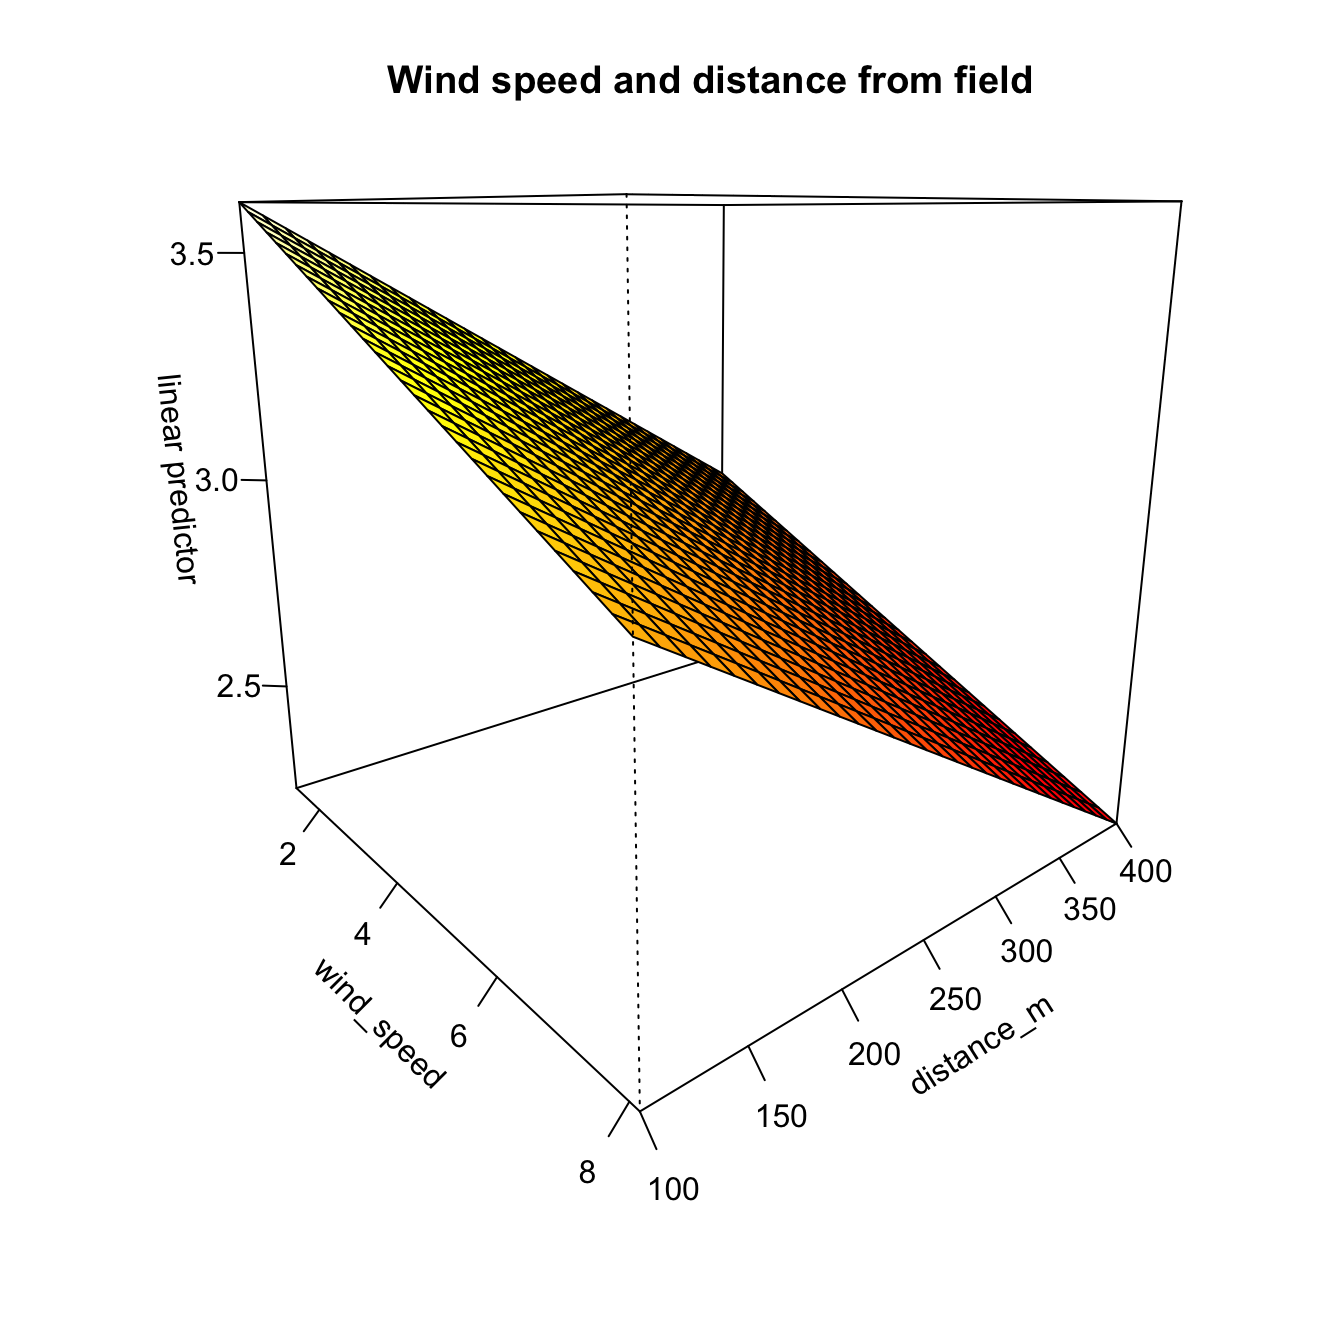
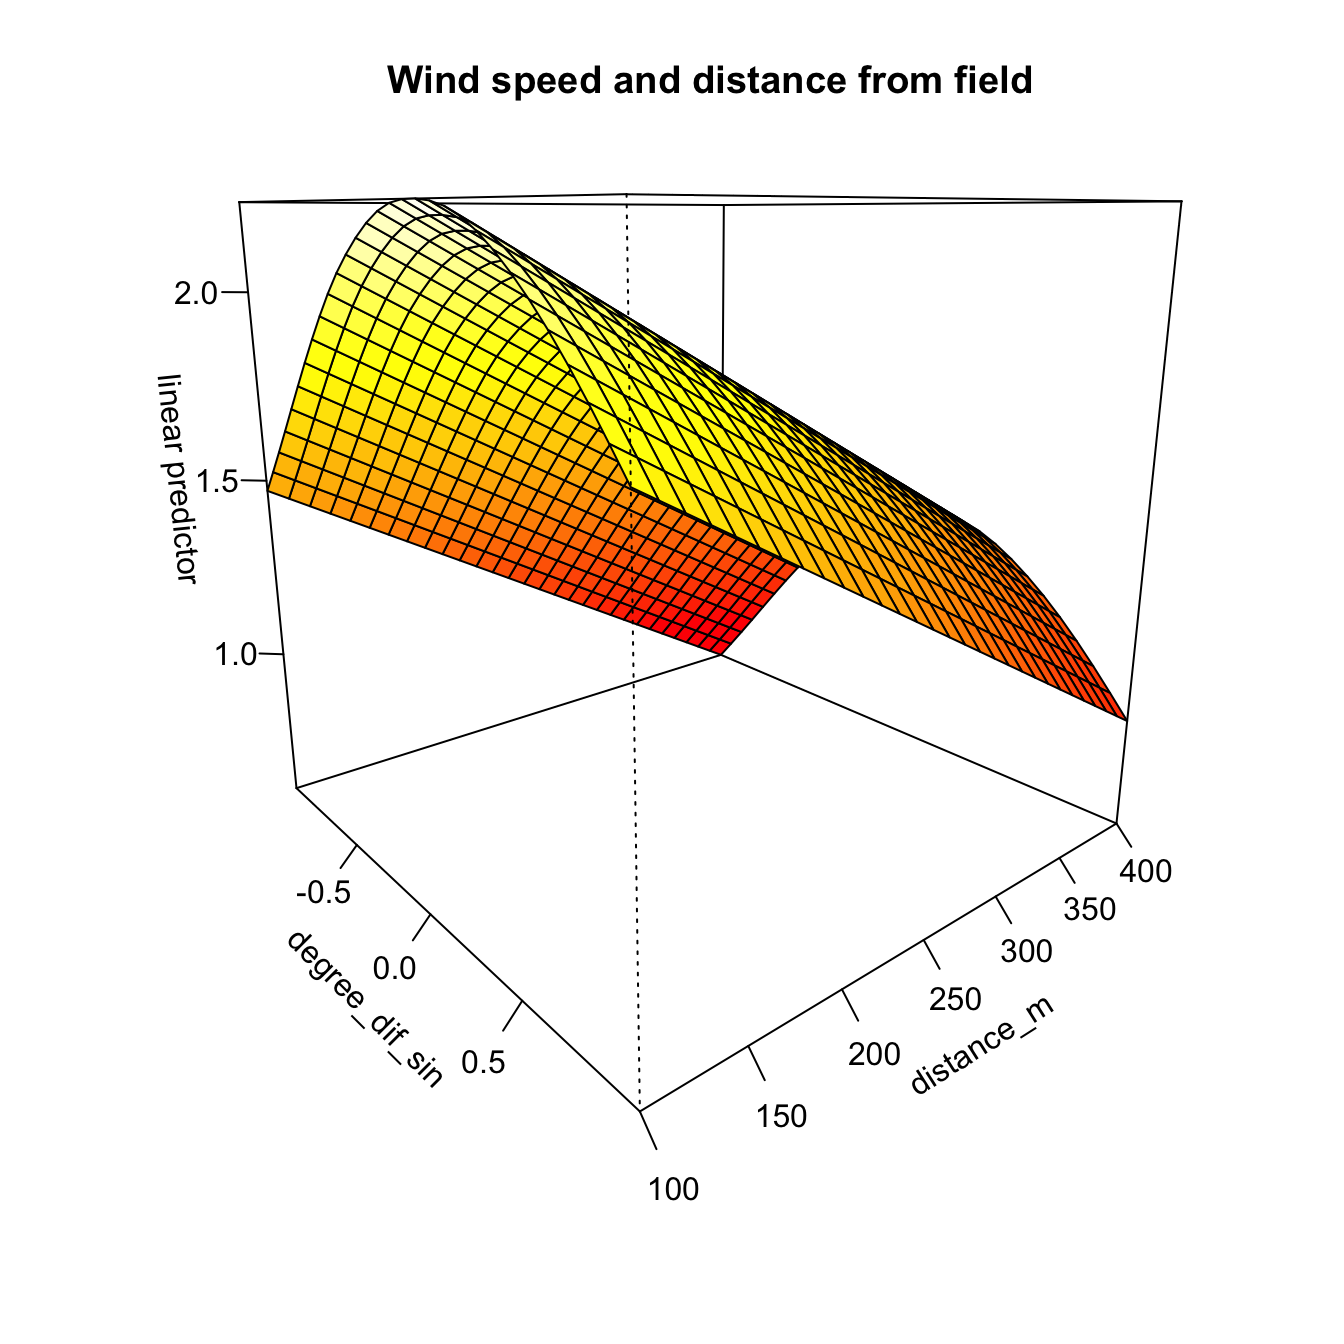
Revert to org model

diff --git a/gam_model.html b/gam_model.html
@@ -439,7 +439,7 @@ recorded in spore type proportion at 100 m to 400 m downwind (P =
          wind_degrees,
          wind_speed,
          distance_m,
-         n_spore) %&gt;%
+         spore_cm2) %&gt;%
   print(n = Inf)</code></pre>
 <pre><code>## # A tibble: 24 × 8
 ## # Groups:   field [6]
@@ -469,7 +469,7 @@ recorded in spore type proportion at 100 m to 400 m downwind (P =
 ## 22 6     E                    90     87.8           2.16       7.57        100
 ## 23 6     W                   270    268.            2.16       7.57        100
 ## 24 6     S                   180    178.            2.16       7.57        100
-## # ℹ 1 more variable: n_spore &lt;dbl&gt;</code></pre>
+## # ℹ 1 more variable: spore_cm2 &lt;dbl&gt;</code></pre>
 <p>Based on the use of AIC to evaluate model fit to the data, the
 following GAM best fit the data with the smoothed time slice variables,
 s(<code>time_slice</code>); a smoothed term for both wind-speed and the
@@ -480,75 +480,84 @@ themselves as a smoothed term random effect, s(<code>field</code>,
 <pre class="r"><code># create a factor for the trap locations in Cartesian coords to be used as a random effect
 mod_dat$xy &lt;- as.factor(paste(mod_dat$x, mod_dat$y))
 
+# create predictor degree diff as per Ben Bolker for circular predictors,
+# https://fediscience.org/@bbolker/110856805100981742, see Appendix for screenshot
+mod_dat$degree_dif_sin &lt;- sin(2 * pi * mod_dat$degree_dif / 360)
+
 m1 &lt;- gam(
-  n_spore ~ s(time_slice, k = 3) +
-    s(wind_speed, distance_m, k = 72) +
+  spore_cm2 ~ s(time_slice, k = 3) +
+    s(degree_dif_sin, k = 72) +
+    s(distance_m, k = 4) +
     s(field, xy, bs = &quot;re&quot;),
   data = mod_dat,
   select = TRUE,
   method = &quot;REML&quot;,
-  family = nb()
+  family = tw()
 )</code></pre>
 </div>
 <div id="inspect-model-m1" class="section level3">
 <h3>Inspect Model m1</h3>
 <pre class="r"><code>m1</code></pre>
 <pre><code>## 
-## Family: Negative Binomial(2.483) 
+## Family: Tweedie(p=1.504) 
 ## Link function: log 
 ## 
 ## Formula:
-## n_spore ~ s(time_slice, k = 3) + s(wind_speed, distance_m, k = 72) + 
-##     s(field, xy, bs = &quot;re&quot;)
+## spore_cm2 ~ s(time_slice, k = 3) + s(degree_dif_sin, k = 72) + 
+##     s(distance_m, k = 4) + s(field, xy, bs = &quot;re&quot;)
 ## 
 ## Estimated degrees of freedom:
-##  0.974  1.468 87.081  total = 90.52 
+##  0.978  1.658  0.808 84.401  total = 88.84 
 ## 
-## REML score: 1073.899</code></pre>
+## REML score: 695.9045</code></pre>
 <div id="check-model-m1" class="section level4">
 <h4>Check model m1</h4>
 <pre class="r"><code>gam.check(m1)</code></pre>
 <p><img src="gam_model_files/figure-html/gam-check-m1-1.png" width="60%" /></p>
 <pre><code>## 
 ## Method: REML   Optimizer: outer newton
-## full convergence after 8 iterations.
-## Gradient range [-0.0003730279,0.00033249]
-## (score 1073.899 &amp; scale 1).
-## Hessian positive definite, eigenvalue range [0.0002110551,53.47214].
-## Model rank =  266 / 266 
+## full convergence after 11 iterations.
+## Gradient range [-0.0001281966,0.000115113]
+## (score 695.9045 &amp; scale 0.9504511).
+## Hessian positive definite, eigenvalue range [0.00001544762,220.5864].
+## Model rank =  269 / 269 
 ## 
 ## Basis dimension (k) checking results. Low p-value (k-index&lt;1) may
 ## indicate that k is too low, especially if edf is close to k&#39;.
 ## 
-##                               k&#39;     edf k-index p-value
-## s(time_slice)              2.000   0.974    0.96    0.51
-## s(wind_speed,distance_m)  71.000   1.468    1.01    0.91
-## s(field,xy)              192.000  87.081      NA      NA</code></pre>
+##                        k&#39;     edf k-index p-value  
+## s(time_slice)       2.000   0.978    0.91   0.325  
+## s(degree_dif_sin)  71.000   1.658    0.84   0.035 *
+## s(distance_m)       3.000   0.808    1.03   0.955  
+## s(field,xy)       192.000  84.401      NA      NA  
+## ---
+## Signif. codes:  0 &#39;***&#39; 0.001 &#39;**&#39; 0.01 &#39;*&#39; 0.05 &#39;.&#39; 0.1 &#39; &#39; 1</code></pre>
 <pre class="r"><code>summary(m1)</code></pre>
 <pre><code>## 
-## Family: Negative Binomial(2.483) 
+## Family: Tweedie(p=1.504) 
 ## Link function: log 
 ## 
 ## Formula:
-## n_spore ~ s(time_slice, k = 3) + s(wind_speed, distance_m, k = 72) + 
-##     s(field, xy, bs = &quot;re&quot;)
+## spore_cm2 ~ s(time_slice, k = 3) + s(degree_dif_sin, k = 72) + 
+##     s(distance_m, k = 4) + s(field, xy, bs = &quot;re&quot;)
 ## 
 ## Parametric coefficients:
-##             Estimate Std. Error z value            Pr(&gt;|z|)    
-## (Intercept)   2.1867     0.1869    11.7 &lt;0.0000000000000002 ***
+##             Estimate Std. Error t value Pr(&gt;|t|)    
+## (Intercept)   0.6869     0.1799   3.819 0.000179 ***
 ## ---
 ## Signif. codes:  0 &#39;***&#39; 0.001 &#39;**&#39; 0.01 &#39;*&#39; 0.05 &#39;.&#39; 0.1 &#39; &#39; 1
 ## 
 ## Approximate significance of smooth terms:
-##                              edf Ref.df  Chi.sq             p-value    
-## s(time_slice)             0.9742      2   37.69 &lt;0.0000000000000002 ***
-## s(wind_speed,distance_m)  1.4684     57 1175.98              0.0214 *  
-## s(field,xy)              87.0809     95 1259.43 &lt;0.0000000000000002 ***
+##                       edf Ref.df      F             p-value    
+## s(time_slice)      0.9780      2  22.39 &lt;0.0000000000000002 ***
+## s(degree_dif_sin)  1.6581     69  16.34              0.0591 .  
+## s(distance_m)      0.8082      3 677.92              0.0239 *  
+## s(field,xy)       84.4006     95  13.99 &lt;0.0000000000000002 ***
 ## ---
 ## Signif. codes:  0 &#39;***&#39; 0.001 &#39;**&#39; 0.01 &#39;*&#39; 0.05 &#39;.&#39; 0.1 &#39; &#39; 1
 ## 
-## R-sq.(adj) =  0.735   Deviance explained = 89.2%
-## -REML = 1073.9  Scale est. = 1         n = 288</code></pre>
+## R-sq.(adj) =  0.785   Deviance explained = 89.6%
+## -REML =  695.9  Scale est. = 0.95045   n = 288</code></pre>
 <pre class="r"><code>vis.gam(m1,
         theta = 50,
         ticktype = &quot;detailed&quot;,
@@ -557,7 +566,7 @@ m1 &lt;- gam(
 <pre class="r"><code>vis.gam(
   m1,
   theta = 50,
-  view = c(&quot;wind_speed&quot;, &quot;distance_m&quot;),
+  view = c(&quot;degree_dif_sin&quot;, &quot;distance_m&quot;),
   ticktype = &quot;detailed&quot;,
   main = &quot;Wind speed and distance from field&quot;
 )</code></pre>
@@ -571,7 +580,7 @@ m1 &lt;- gam(
   main = &quot;Random Effects&quot;
 )</code></pre>
 <p><img src="gam_model_files/figure-html/gam-check-m1-4.png" width="60%" /></p>
-<p>The model fully converged after 8 iterations. All of the predictive
+<p>The model fully converged after 11 iterations. All of the predictive
 factors included were significant at <em>P</em> &gt; 0.05 and the
 smoothed predictors indicate a good fit with residuals being randomly
 distributed and enough basis functions for them to be properly fit. The
@@ -602,8 +611,8 @@ predictions</h3>
 
 newd &lt;- expand_grid(
   time_slice = unique(mod_dat$time_slice),
+  degree_dif_sin = unique(mod_dat$degree_dif_sin),
   distance_m = unique(mod_dat$distance_m),
-  wind_speed = seq(from = 0, to = 10, by = 0.5),
   xy = unique(mod_dat$xy),
   field = 1
 )
@@ -634,6 +643,22 @@ predictions</code></pre>
   h = 2,
   scale = 1.2
 )</code></pre>
+</div>
+</div>
+<div id="appendix" class="section level2">
+<h2>Appendix</h2>
+<p>Screenshot of Ben Bolker’s Toot on fedscience.org regarding
+constructing a linear model with compass directions as predictor
+variables and how to handle this in the model.</p>
+<div class="float">
+<img src="images/BBolker_Toot.png"
+alt="“At a quick skim this looks like it’s mostly about circular response variables. In case this hasn’t occurred to you already, I think the simplest thing will be to use sin(direction), cos(direction) as predictors … (or more precisely sin(2pidir/360) etc. if your directions are in degrees …)”" />
+<div class="figcaption">“At a quick skim this looks like it’s mostly
+about circular <em>response</em> variables. In case this hasn’t occurred
+to you already, I think the simplest thing will be to use
+sin(direction), cos(direction) as predictors … (or more precisely
+sin(2<em>pi</em>dir/360) etc. if your directions are in degrees
+…)”</div>
 </div>
 </div>
 

diff --git a/data_import.html b/data_import.html
@@ -421,23 +421,23 @@ that has the cardinal directions in it for further analysis.</p>
 <pre class="r"><code>spore_data &lt;-
   spore_data %&gt;%
   group_by(field, trap_coord, distance_m, time_min) %&gt;%
-  summarise(n_spore = sum(n_spore))
+  summarise(spore_cm2 = mean(n_spore) / 1.2)
 
 spore_data</code></pre>
 <pre><code>## # A tibble: 288 × 5
 ## # Groups:   field, trap_coord, distance_m [96]
-##    field trap_coord distance_m time_min n_spore
-##    &lt;fct&gt; &lt;fct&gt;           &lt;dbl&gt;    &lt;dbl&gt;   &lt;dbl&gt;
-##  1 1     N                 100       90       2
-##  2 1     N                 100      180       4
-##  3 1     N                 100      270       3
-##  4 1     N                 200       90       2
-##  5 1     N                 200      180       3
-##  6 1     N                 200      270      14
-##  7 1     N                 300       90       1
-##  8 1     N                 300      180       0
-##  9 1     N                 300      270       0
-## 10 1     N                 400       90       1
+##    field trap_coord distance_m time_min spore_cm2
+##    &lt;fct&gt; &lt;fct&gt;           &lt;dbl&gt;    &lt;dbl&gt;     &lt;dbl&gt;
+##  1 1     N                 100       90     0.417
+##  2 1     N                 100      180     0.833
+##  3 1     N                 100      270     0.625
+##  4 1     N                 200       90     0.417
+##  5 1     N                 200      180     0.625
+##  6 1     N                 200      270     2.92 
+##  7 1     N                 300       90     0.208
+##  8 1     N                 300      180     0    
+##  9 1     N                 300      270     0    
+## 10 1     N                 400       90     0.208
 ## # ℹ 278 more rows</code></pre>
 </div>
 <div id="weather-data" class="section level3">
